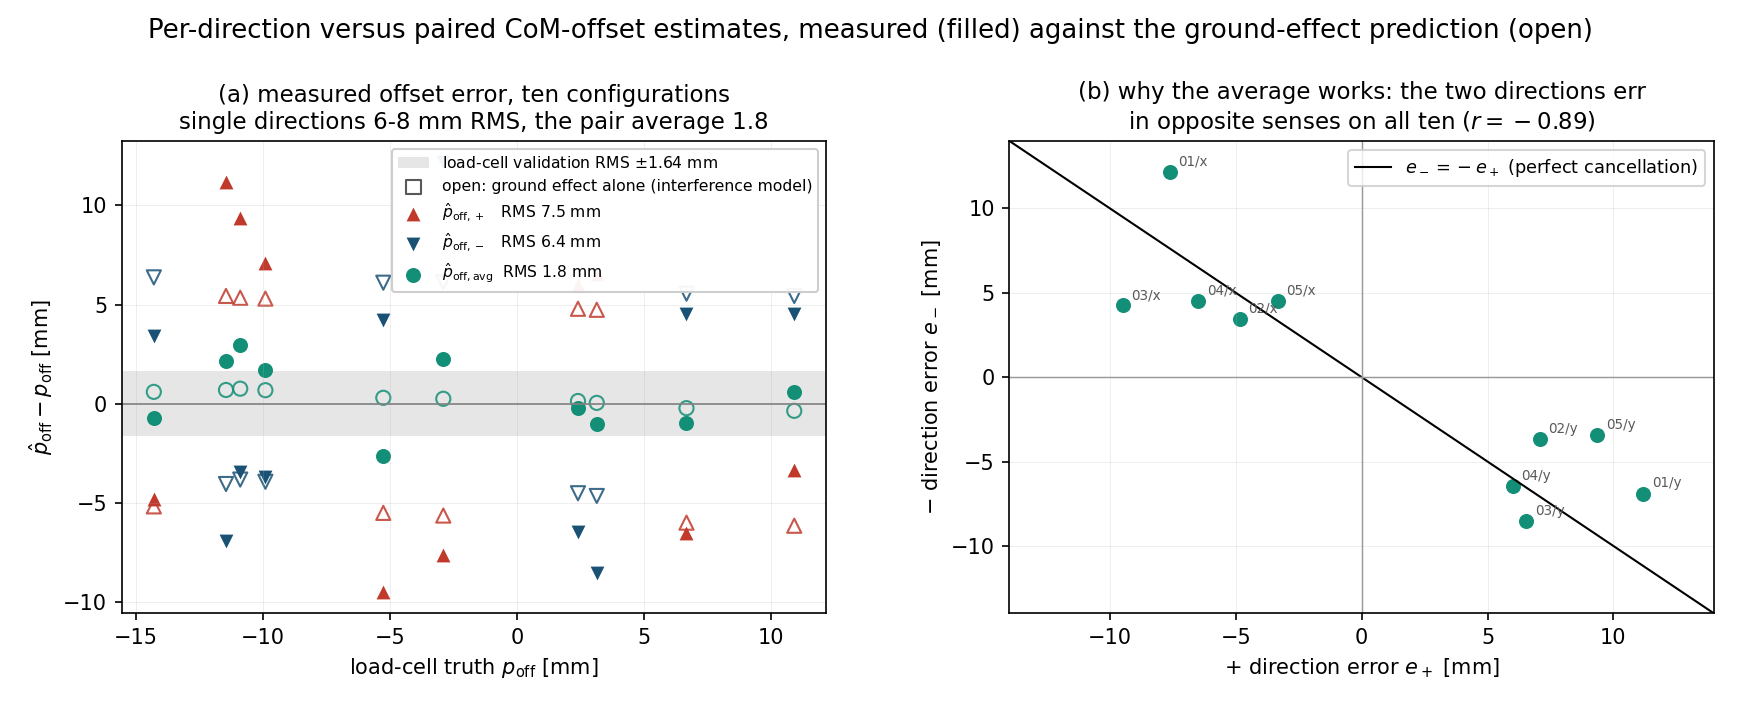
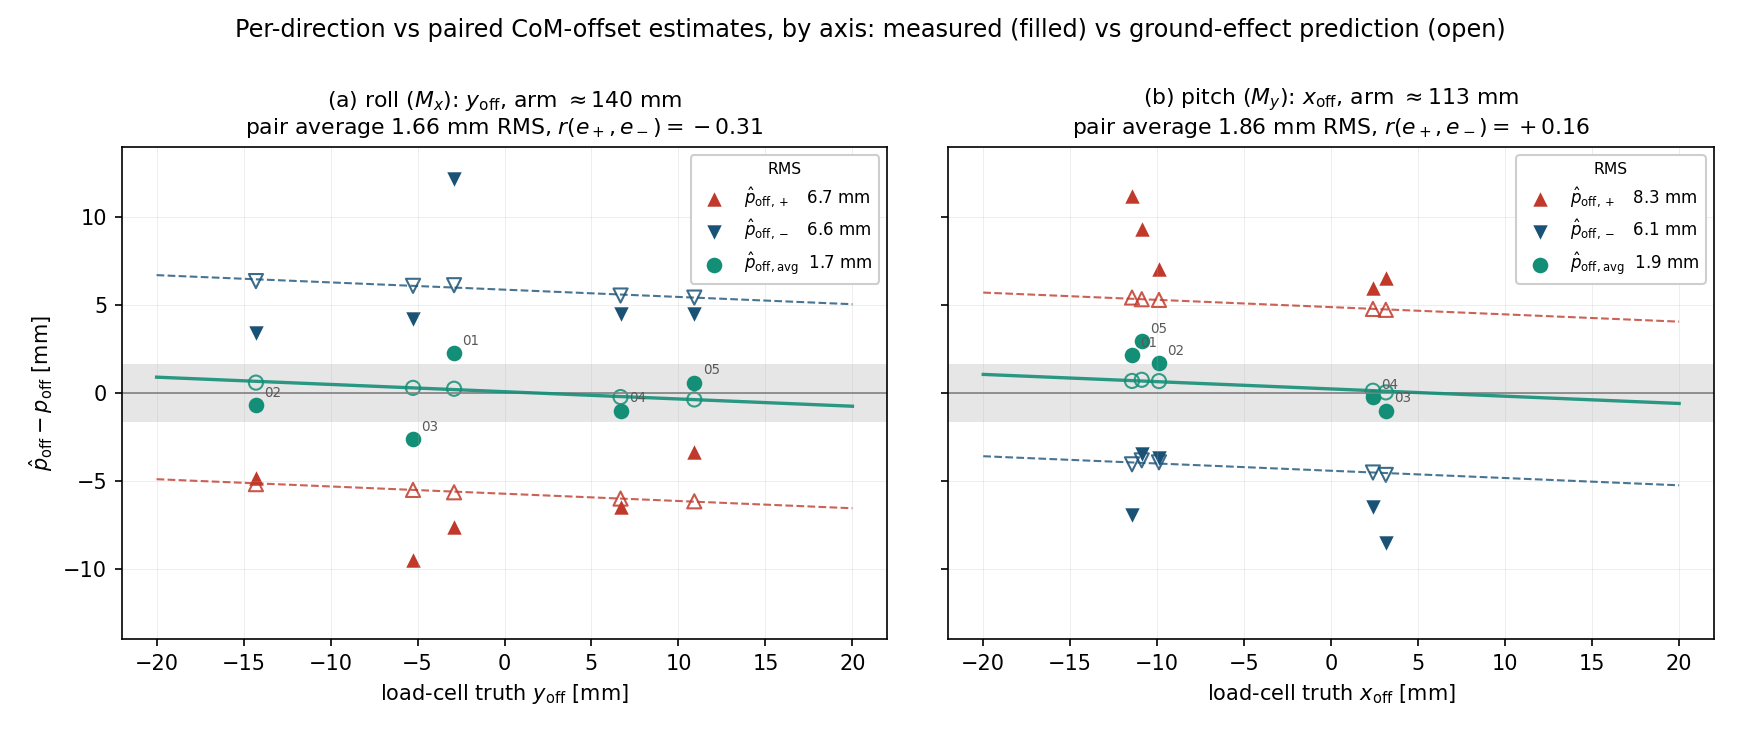
Split the measured offset comparison by axis, with GE theory lines
One panel per axis (roll y_off, arm 140 mm; pitch x_off, arm 113 mm),
each carrying the continuous ground-effect prediction on that axis's
median geometry alongside the measured points, so the gap between the
two is directly visible.

Per axis: roll 6.7 / 6.6 mm RMS single-direction against 1.66 paired;
pitch 8.3 / 6.1 against 1.86.  The ground effect alone predicts
5.7 / 5.9 -> 0.37 (roll) and 5.1 / 4.2 -> 0.56 (pitch), so it accounts
for most but not all of the single-direction spread and only a third
of the paired residual.

Also records the correlation properly: within an axis r(e+, e-) is
weak (-0.31 roll, +0.16 pitch); the pooled -0.89 quoted earlier is
inflated by the two axes sitting in opposite quadrants.  The robust
statement is the sign opposition, 10/10 configurations.

Claude-Session: https://claude.ai/code/session_01BM6bcsm1ZtLtgegEeuFDVS

diff --git a/analysis/offset_experimental_split.py b/analysis/offset_experimental_split.py
@@ -52,7 +52,8 @@ def main():
     for r in rows:
         by.setdefault((r['case'], r['axis']), {})[r['dir']] = r
 
-    tru, ep, en, ea, tp, tn, ta = ([] for _ in range(7))
+    D = {'Mx': {k: [] for k in 'tru ep en ea tp tn ta lab'.split()},
+         'My': {k: [] for k in 'tru ep en ea tp tn ta lab'.split()}}
     for key, grp in sorted(by.items()):
         W = float(grp['pos']['W'])
         sa = SGN[key[1]]
@@ -68,85 +69,111 @@ def main():
             m_ge = (s * (W - f) * l + sa * W * p - s * ALPHA * f * l) \
                 / (1.0 + ALPHA)
             the[dn] = sa * (m_ge - s * (W - f) * l) / W
-        tru.append(1e3 * p)
-        ep.append(1e3 * (est['pos'] - p))
-        en.append(1e3 * (est['neg'] - p))
-        ea.append(1e3 * (0.5 * (est['pos'] + est['neg']) - p))
-        tp.append(1e3 * (the['pos'] - p))
-        tn.append(1e3 * (the['neg'] - p))
-        ta.append(1e3 * (0.5 * (the['pos'] + the['neg']) - p))
-    tru, ep, en, ea = map(np.array, (tru, ep, en, ea))
-    tp, tn, ta = map(np.array, (tp, tn, ta))
+        q = D[key[1]]
+        q['tru'].append(1e3 * p)
+        q['ep'].append(1e3 * (est['pos'] - p))
+        q['en'].append(1e3 * (est['neg'] - p))
+        q['ea'].append(1e3 * (0.5 * (est['pos'] + est['neg']) - p))
+        q['tp'].append(1e3 * (the['pos'] - p))
+        q['tn'].append(1e3 * (the['neg'] - p))
+        q['ta'].append(1e3 * (0.5 * (the['pos'] + the['neg']) - p))
+        q['lab'].append(key[0][-2:])
+        q.setdefault('geom', []).append(
+            (W, sa, float(grp['pos']['f_onset']),
+             float(grp['pos']['l_odom_mm']) * 1e-3,
+             float(grp['neg']['f_onset']),
+             float(grp['neg']['l_odom_mm']) * 1e-3))
+    for q in D.values():
+        for k in 'tru ep en ea tp tn ta'.split():
+            q[k] = np.array(q[k])
 
-    fig, (a1, a2) = plt.subplots(1, 2, figsize=(11.6, 4.7))
+    fig, axs = plt.subplots(1, 2, figsize=(11.6, 4.9), sharey=True)
     fig.subplots_adjust(left=0.07, right=0.985, top=0.80, bottom=0.13,
-                        wspace=0.26)
+                        wspace=0.08)
 
-    # ---- (a) errors against the truth offset ----
-    a1.axhspan(-1.64, 1.64, color='0.90', lw=0, zorder=0,
-               label='load-cell validation RMS $\\pm 1.64$ mm')
-    a1.axhline(0, color='0.5', lw=0.8)
-    # ground-effect-only prediction, per configuration: drawn as open
-    # markers, not a line -- the two axes carry different arms, so a
-    # curve through them sorted by truth would zigzag meaninglessly
-    for v, c, mk in ((tp, C['p'], '^'), (tn, C['n'], 'v'),
-                     (ta, C['a'], 'o')):
-        a1.scatter(tru, v, s=46, facecolors='none', edgecolors=c,
-                   marker=mk, lw=1.0, alpha=0.85)
-    a1.scatter([], [], s=46, facecolors='none', edgecolors='0.35',
-               marker='s', lw=1.0,
-               label='open: ground effect alone (interference model)')
-    a1.scatter(tru, ep, s=44, c=C['p'], marker='^', lw=0,
-               label=f'$\\hat{{p}}_{{\\rm off,+}}$   RMS '
-                     f'{np.sqrt(np.mean(ep**2)):.1f} mm')
-    a1.scatter(tru, en, s=44, c=C['n'], marker='v', lw=0,
-               label=f'$\\hat{{p}}_{{\\rm off,-}}$   RMS '
-                     f'{np.sqrt(np.mean(en**2)):.1f} mm')
-    a1.scatter(tru, ea, s=52, c=C['a'], marker='o', lw=0,
-               label=f'$\\hat{{p}}_{{\\rm off,avg}}$  RMS '
-                     f'{np.sqrt(np.mean(ea**2)):.1f} mm')
-    a1.set_xlabel('load-cell truth $p_{\\rm off}$ [mm]', fontsize=10)
-    a1.set_ylabel('$\\hat{p}_{\\rm off} - p_{\\rm off}$ [mm]', fontsize=10)
-    a1.set_title('(a) measured offset error, ten configurations\n'
-                 'single directions 6-8 mm RMS, the pair average 1.8',
-                 fontsize=11)
-    a1.legend(fontsize=7.5, loc='upper right', framealpha=0.95,
-              ncol=1)
-    a1.grid(alpha=0.25, lw=0.4)
+    ttl = {'Mx': ('(a) roll ($M_x$): $y_{\\rm off}$, arm $\\approx 140$ mm',
+                  '$y_{\\rm off}$'),
+           'My': ('(b) pitch ($M_y$): $x_{\\rm off}$, arm $\\approx 113$ mm',
+                  '$x_{\\rm off}$')}
+    for ax, an in zip(axs, ('Mx', 'My')):
+        q = D[an]
+        ax.axhspan(-1.64, 1.64, color='0.90', lw=0, zorder=0)
+        ax.axhline(0, color='0.5', lw=0.8)
+        # continuous GE-only prediction, on this axis's median geometry
+        gm = np.median(np.array(q['geom']), axis=0)
+        Wm, sam, fp, lp_, fn, ln_ = gm
+        pg = np.linspace(-20e-3, 20e-3, 200)
+        cur = {}
+        for nm2, sg, fq, lq in (('p', +1.0, fp, lp_), ('n', -1.0, fn, ln_)):
+            m_ge = (sg * (Wm - fq) * lq + sam * Wm * pg
+                    - sg * ALPHA * fq * lq) / (1.0 + ALPHA)
+            cur[nm2] = sam * (m_ge - sg * (Wm - fq) * lq) / Wm - pg
+        for nm2, c in (('p', C['p']), ('n', C['n'])):
+            ax.plot(1e3 * pg, 1e3 * cur[nm2], '--', color=c, lw=1.0,
+                    alpha=0.8)
+        ax.plot(1e3 * pg, 1e3 * 0.5 * (cur['p'] + cur['n']), '-',
+                color=C['a'], lw=1.6, alpha=0.9)
+        for key, c, mk in (('tp', C['p'], '^'), ('tn', C['n'], 'v'),
+                           ('ta', C['a'], 'o')):
+            ax.scatter(q['tru'], q[key], s=46, facecolors='none',
+                       edgecolors=c, marker=mk, lw=1.0, alpha=0.85)
+        rms = lambda v: float(np.sqrt(np.mean(v ** 2)))
+        ax.scatter(q['tru'], q['ep'], s=48, c=C['p'], marker='^', lw=0,
+                   label=f"$\\hat{{p}}_{{\\rm off,+}}$   "
+                         f"{rms(q['ep']):.1f} mm")
+        ax.scatter(q['tru'], q['en'], s=48, c=C['n'], marker='v', lw=0,
+                   label=f"$\\hat{{p}}_{{\\rm off,-}}$   "
+                         f"{rms(q['en']):.1f} mm")
+        ax.scatter(q['tru'], q['ea'], s=56, c=C['a'], marker='o', lw=0,
+                   label=f"$\\hat{{p}}_{{\\rm off,avg}}$  "
+                         f"{rms(q['ea']):.1f} mm")
+        for x, y, lb in zip(q['tru'], q['ea'], q['lab']):
+            ax.annotate(lb, (x, y), fontsize=6.5, color='0.35',
+                        xytext=(4, 4), textcoords='offset points')
+        r_ax = float(np.corrcoef(q['ep'], q['en'])[0, 1])
+        ax.set_xlabel(f"load-cell truth {ttl[an][1]} [mm]", fontsize=10)
+        ax.set_title(f"{ttl[an][0]}\n"
+                     f"pair average {rms(q['ea']):.2f} mm RMS, "
+                     f"$r(e_+, e_-) = {r_ax:+.2f}$", fontsize=10.5)
+        ax.legend(fontsize=8, loc='upper right', framealpha=0.95,
+                  title='RMS', title_fontsize=7.5)
+        ax.grid(alpha=0.25, lw=0.4)
+        ax.set_ylim(-14, 14)
+    axs[0].set_ylabel('$\\hat{p}_{\\rm off} - p_{\\rm off}$ [mm]',
+                      fontsize=10)
+    axs[0].scatter([], [], s=46, facecolors='none', edgecolors='0.35',
+                   marker='s', lw=1.0)
 
-    # ---- (b) the antisymmetry the pairing exploits ----
-    lim = 1.15 * max(np.abs(ep).max(), np.abs(en).max())
-    a2.plot([-lim, lim], [lim, -lim], 'k-', lw=1.0,
-            label='$e_- = -e_+$ (perfect cancellation)')
-    a2.axhline(0, color='0.6', lw=0.7)
-    a2.axvline(0, color='0.6', lw=0.7)
-    a2.scatter(ep, en, s=52, c=C['a'], lw=0)
-    for x, y, k in zip(ep, en, sorted(by)):
-        a2.annotate(k[0][-2:] + '/' + k[1][-1], (x, y), fontsize=6.5,
-                    xytext=(4, 3), textcoords='offset points',
-                    color='0.35')
-    r = float(np.corrcoef(ep, en)[0, 1])
-    a2.set_xlabel('$+$ direction error $e_+$ [mm]', fontsize=10)
-    a2.set_ylabel('$-$ direction error $e_-$ [mm]', fontsize=10)
-    a2.set_title('(b) why the average works: the two directions err\n'
-                 f'in opposite senses on all ten ($r = {r:+.2f}$)',
-                 fontsize=11)
-    a2.legend(fontsize=8.5, loc='upper right')
-    a2.grid(alpha=0.25, lw=0.4)
-    a2.set_xlim(-lim, lim)
-    a2.set_ylim(-lim, lim)
-
-    fig.suptitle('Per-direction versus paired CoM-offset estimates, '
-                 'measured (filled) against the ground-effect '
-                 'prediction (open)', fontsize=12.5, y=0.975)
+    fig.suptitle('Per-direction vs paired CoM-offset estimates, by axis: '
+                 'measured (filled) vs ground-effect prediction (open)',
+                 fontsize=11.5, y=0.975)
     fig.savefig(out, dpi=150)
 
+    for an in ('Mx', 'My'):
+        q = D[an]
+        print(f"  --- {an} ---")
+        for nm, k, tk in (('+ direction', 'ep', 'tp'),
+                          ('- direction', 'en', 'tn'),
+                          ('pair average', 'ea', 'ta')):
+            v, t = q[k], q[tk]
+            print(f"    {nm:<13} RMS {np.sqrt(np.mean(v**2)):5.2f} mm, "
+                  f"worst {np.abs(v).max():5.2f};  GE alone "
+                  f"{np.sqrt(np.mean(t**2)):4.2f}")
+    ep = np.concatenate([D[a]['ep'] for a in D])
+    en = np.concatenate([D[a]['en'] for a in D])
+    ea = np.concatenate([D[a]['ea'] for a in D])
+    tp = np.concatenate([D[a]['tp'] for a in D])
+    tn = np.concatenate([D[a]['tn'] for a in D])
+    ta = np.concatenate([D[a]['ta'] for a in D])
+    r = float(np.corrcoef(ep, en)[0, 1])
+    print("  --- pooled ---")
     for nm, v, t in (('+ direction', ep, tp), ('- direction', en, tn),
                      ('pair average', ea, ta)):
-        print(f"  {nm:<13} RMS {np.sqrt(np.mean(v**2)):5.2f} mm, "
+        print(f"    {nm:<13} RMS {np.sqrt(np.mean(v**2)):5.2f} mm, "
               f"worst {np.abs(v).max():5.2f};  GE alone predicts RMS "
               f"{np.sqrt(np.mean(t**2)):4.2f}")
-    print(f"  corr(e+, e-) = {r:+.3f};  wrote {out}")
+    print(f"    corr(e+, e-) = {r:+.3f}")
+    print(f"  wrote {out}")
     return 0
 
 
